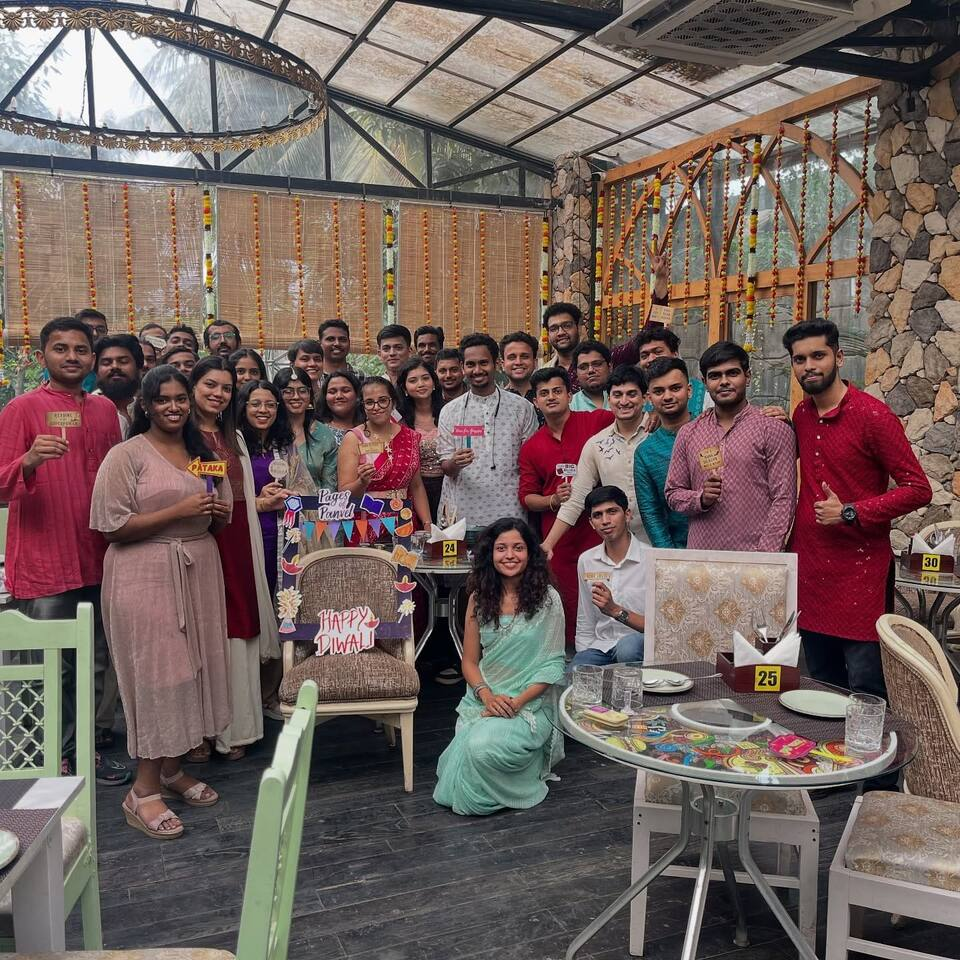
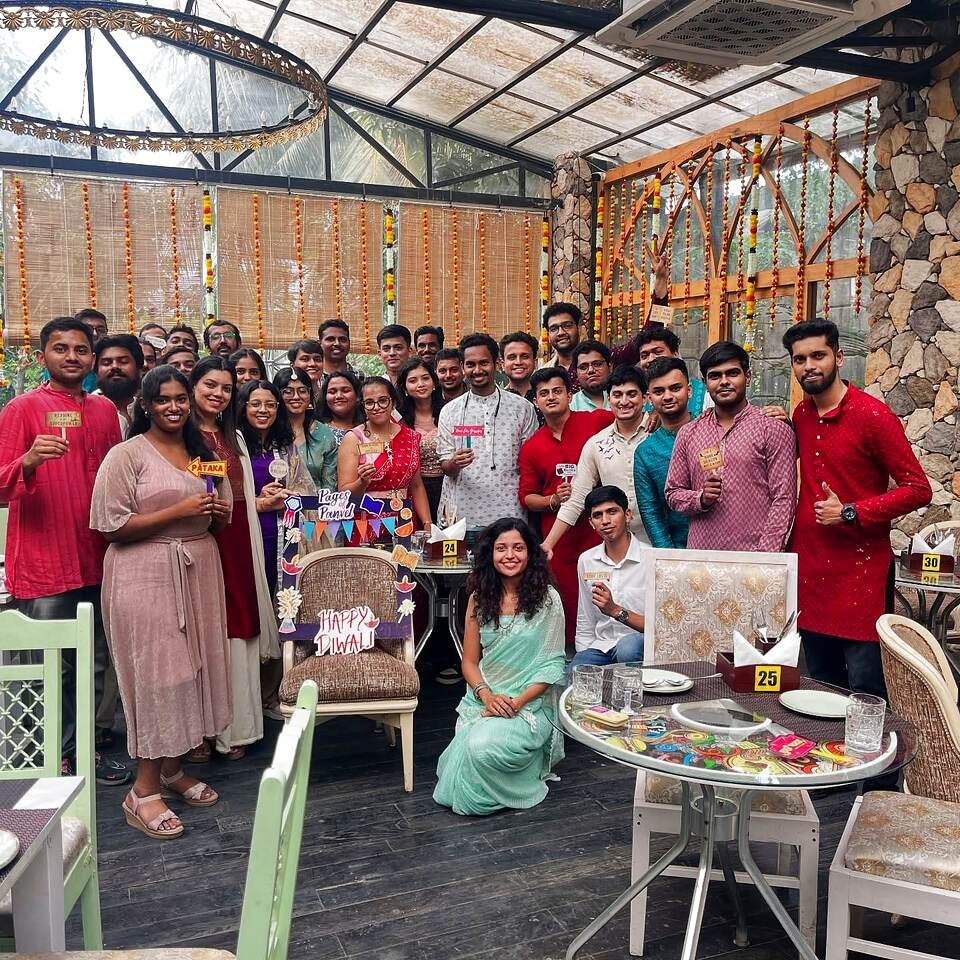
Diwali page: brighter, livelier group photo
Re-processed from the original: a touch more light and contrast, richer
colour, a little sharpening. The link-preview card is rebuilt with it.

Claude-Session: https://claude.ai/code/session_01FYWMMaSKN7ZYphbb5y2UCw

diff --git a/diwali/index.html b/diwali/index.html
@@ -12,7 +12,7 @@
 <meta property="og:type" content="website">
 <meta property="og:url" content="https://pagesofpanvel.in/diwali/">
 <meta property="og:site_name" content="Pages of Panvel">
-<meta property="og:image" content="https://pagesofpanvel.in/diwali/share.jpg?v=3">
+<meta property="og:image" content="https://pagesofpanvel.in/diwali/share.jpg?v=4">
 <meta property="og:image:type" content="image/jpeg">
 <meta property="og:image:width" content="1200">
 <meta property="og:image:height" content="630">
@@ -63,7 +63,7 @@
     <h2 id="mem-h" class="h2">Last Diwali,<br><span>we did this.</span></h2>
     <figure class="polaroid">
       <span class="tape" aria-hidden="true"></span>
-      <img src="last-year.jpg" width="960" height="960" loading="lazy" decoding="async"
+      <img src="last-year.jpg?v=2" width="960" height="960" loading="lazy" decoding="async"
         alt="Last year's Pages of Panvel Diwali party: about thirty readers in festive clothes, holding bookish photo props and a Happy Diwali frame, under marigold garlands.">
       <figcaption>Diwali 2025 · all of us, dressed up</figcaption>
       <span class="sticker s1" aria-hidden="true">Book lover</span>
